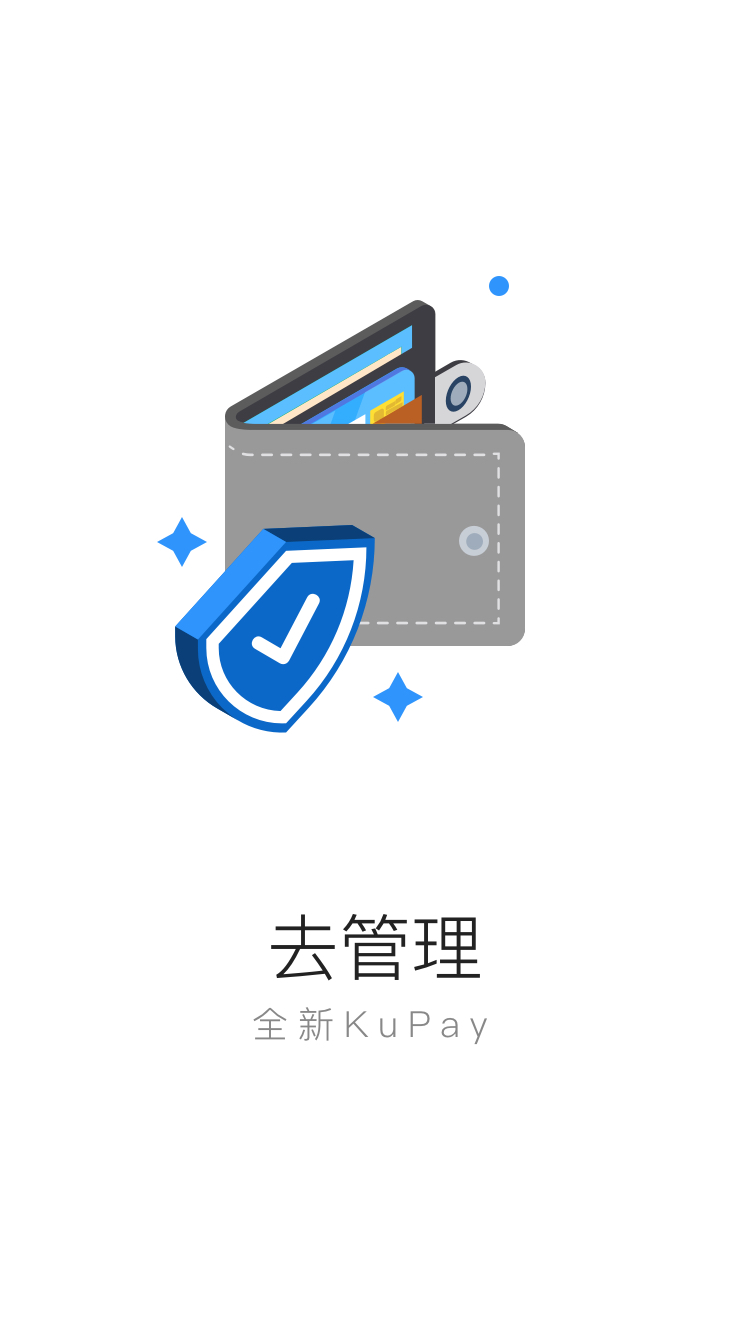
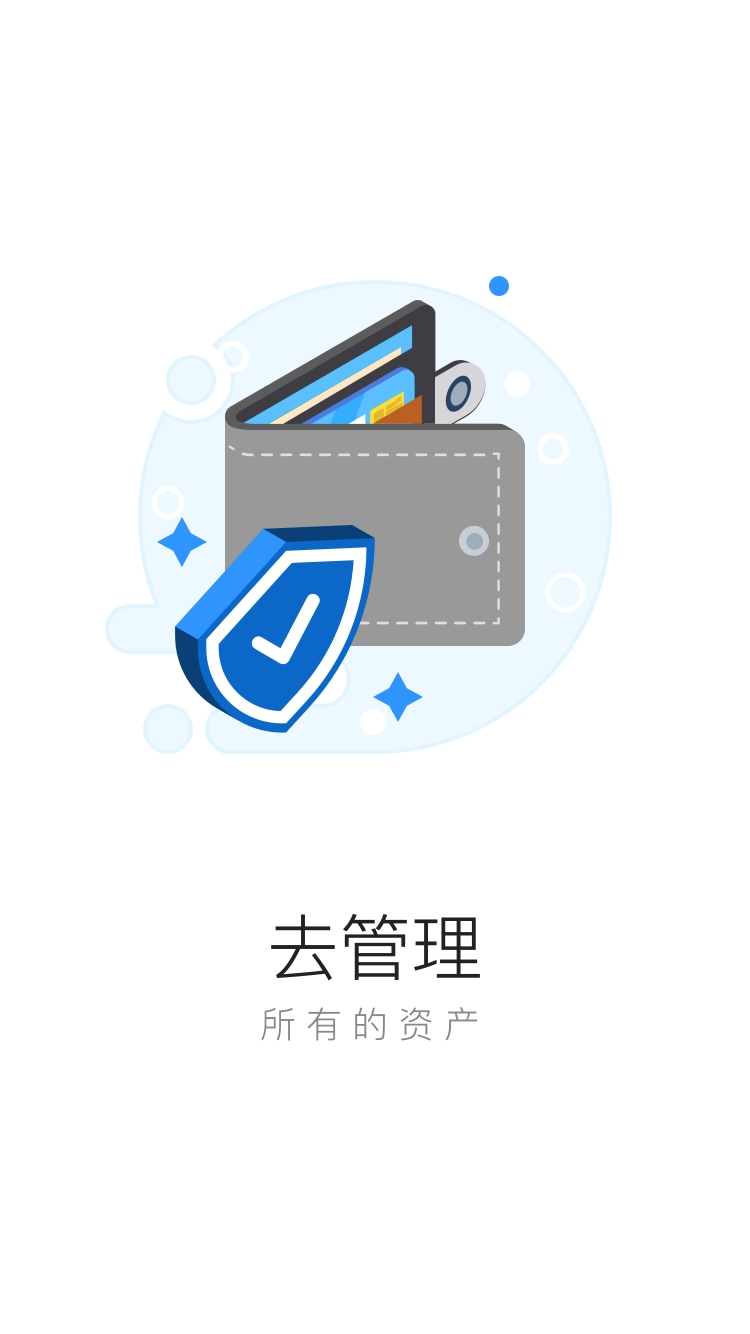
FAIR-1597 引导页修改

diff --git a/src/app/boot/index.html b/src/app/boot/index.html
@@ -313,7 +313,7 @@
 			background-image: url(../res/image/bg_open.png);
 			background-position: center;
 			background-repeat: no-repeat;
-			background-size: 239px 188px;
+			background-size: cover;
 		}
 
 		.aside {
